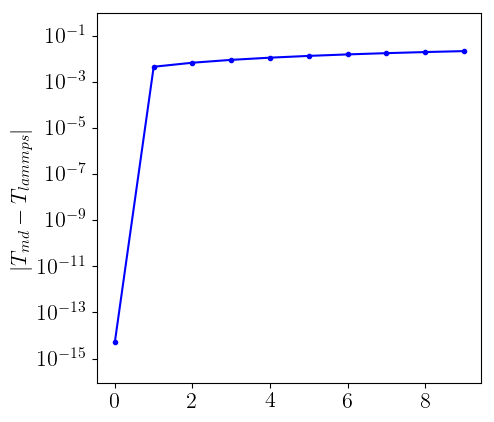
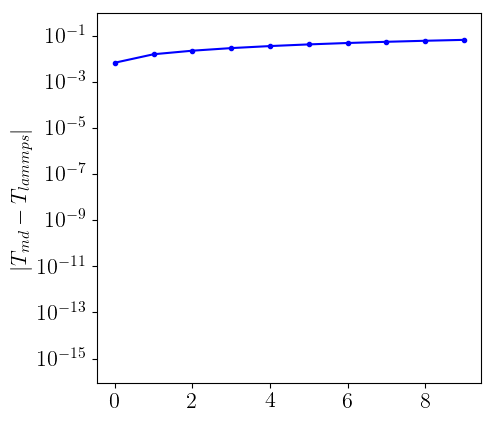
Added velocities, energy check to the analysis, total energy isnt even close to conserved--something is wrong here.

diff --git a/testcases/md-2d-lj/analysis/energies.py b/testcases/md-2d-lj/analysis/energies.py
@@ -1,0 +1,68 @@
+import sys
+import os
+import subprocess
+import numpy as np
+import matplotlib.pyplot as plt
+
+# Add the src/ directory to the python path so we can import the code 
+# we need to use directly as 'from <file name> import <function/class>'
+sys.path.append(os.path.join(os.path.dirname(__file__)))
+
+from positions_and_velocities_and_forces import compileAndRun, getValuesLammps, readValues
+
+
+if __name__ == '__main__':
+    compileAndRun()
+
+    md_energies = readValues("energy.dump", shape=(2,10))
+    lammps_energies = readValues("lammps.energy", shape=(3,11))
+    lammps_energies = lammps_energies[1:,1:]
+
+    markersize = 3.0
+    low_limit = 0.9e-16
+    up_limit = 1e-0
+    fontsize = 16
+
+    plt.rc('text', usetex=True)
+    plt.figure()
+    difference = np.abs(md_energies[0,:] - lammps_energies[0,:])
+    difference[difference<1e-16] = 1e-16
+    plt.semilogy(difference, 'b-o', markersize=markersize)
+    plt.ylabel(r"$|T_{md} - T_{lammps}|$", fontsize=fontsize)
+    plt.subplots_adjust(left=0.3)
+    plt.ylim((low_limit, up_limit))
+    plt.xticks(fontsize=fontsize)
+    plt.yticks(fontsize=fontsize)
+    plt.savefig(os.path.join(os.path.dirname(__file__), 'figures', 'kinetic-energy.png'), transparent=True, bbox_inches='tight')
+    #plt.show()
+    
+    plt.figure()
+    difference = np.abs(md_energies[1,:] - lammps_energies[1,:])
+    difference[difference<1e-16] = 1e-16
+    plt.semilogy(difference, 'b-o', markersize=markersize)
+    plt.ylabel(r"$|V_{md} - V_{lammps}|$", fontsize=fontsize)
+    plt.subplots_adjust(left=0.3)
+    plt.ylim((low_limit, up_limit))
+    plt.xticks(fontsize=fontsize)
+    plt.yticks(fontsize=fontsize)
+    plt.savefig(os.path.join(os.path.dirname(__file__), 'figures', 'potential-energy.png'), transparent=True, bbox_inches='tight')
+
+
+    lammps_total = np.sum(lammps_energies, axis=0) 
+    md_total     = np.sum(md_energies, axis=0)
+    md_diff      = np.array([np.abs(md_total[i]-md_total[0]) for i in range(len(md_total))])
+    md_diff[0]   = 1e-16
+
+    plt.figure()
+    difference = np.abs(md_total - lammps_total)
+    difference[difference<1e-16] = 1e-16
+    plt.semilogy(difference, 'b-o', markersize=markersize, label=r'$|E_{md}-E_{lammps}|$')
+    plt.semilogy(md_diff,    'r-o', markersize=markersize, label=r'$|\Delta E_{md}|$')
+    plt.ylabel(r"$|\Delta E_{total}|$", fontsize=fontsize)
+    plt.subplots_adjust(left=0.3)
+    plt.ylim((low_limit, up_limit))
+    plt.xticks(fontsize=fontsize)
+    plt.yticks(fontsize=fontsize)
+    plt.legend(fontsize=fontsize)
+    plt.savefig(os.path.join(os.path.dirname(__file__), 'figures', 'total-energy.png'), transparent=True, bbox_inches='tight')
+    plt.show()

diff --git a/testcases/md-2d-lj/analysis/positions_and_velocities_and_forces.py b/testcases/md-2d-lj/analysis/positions_and_velocities_and_forces.py
@@ -49,9 +49,8 @@ if __name__ == '__main__':
     forces_md        = readValues('forces.dump')
     positions_md     = readValues('positions.dump')
     positions2_md    = readValues('positions2.dump')
-    positions_lammps, _, forces_lammps = getValuesLammps(0)
-
-
+    velocities_md    = readValues('velocities.dump')
+    positions_lammps, velocities_lammps, forces_lammps = getValuesLammps(0)
 
     markersize = 3.0
     low_limit = 0.9e-16
@@ -82,6 +81,17 @@ if __name__ == '__main__':
     plt.savefig(os.path.join(os.path.dirname(__file__), 'figures', 'positions-firststep.png'), transparent=True, bbox_inches='tight')
 
     plt.figure()
+    difference = np.abs(np.ravel(velocities_md)-np.ravel(velocities_lammps))
+    difference[difference<1e-16] = 1e-16
+    plt.semilogy(difference, 'r.', markersize=markersize)
+    plt.ylabel(r"$|v_{1,md} - v_{1,lammps}|$", fontsize=fontsize)
+    plt.subplots_adjust(left=0.3)
+    plt.ylim((low_limit, up_limit))
+    plt.xticks(fontsize=fontsize)
+    plt.yticks(fontsize=fontsize)
+    plt.savefig(os.path.join(os.path.dirname(__file__), 'figures', 'velocities-firststep.png'), transparent=True, bbox_inches='tight')
+
+    plt.figure()
     positions_lammps, _, _ = getValuesLammps(1)
     difference = np.abs(np.ravel(positions2_md)-np.ravel(positions_lammps))
     difference[difference<1e-16] = 1e-16
@@ -92,6 +102,6 @@ if __name__ == '__main__':
     plt.xticks(fontsize=fontsize)
     plt.yticks(fontsize=fontsize)
     plt.savefig(os.path.join(os.path.dirname(__file__), 'figures', 'positions-secondstep.png'), transparent=True, bbox_inches='tight')
-    #plt.show()
+    plt.show()
 
 
